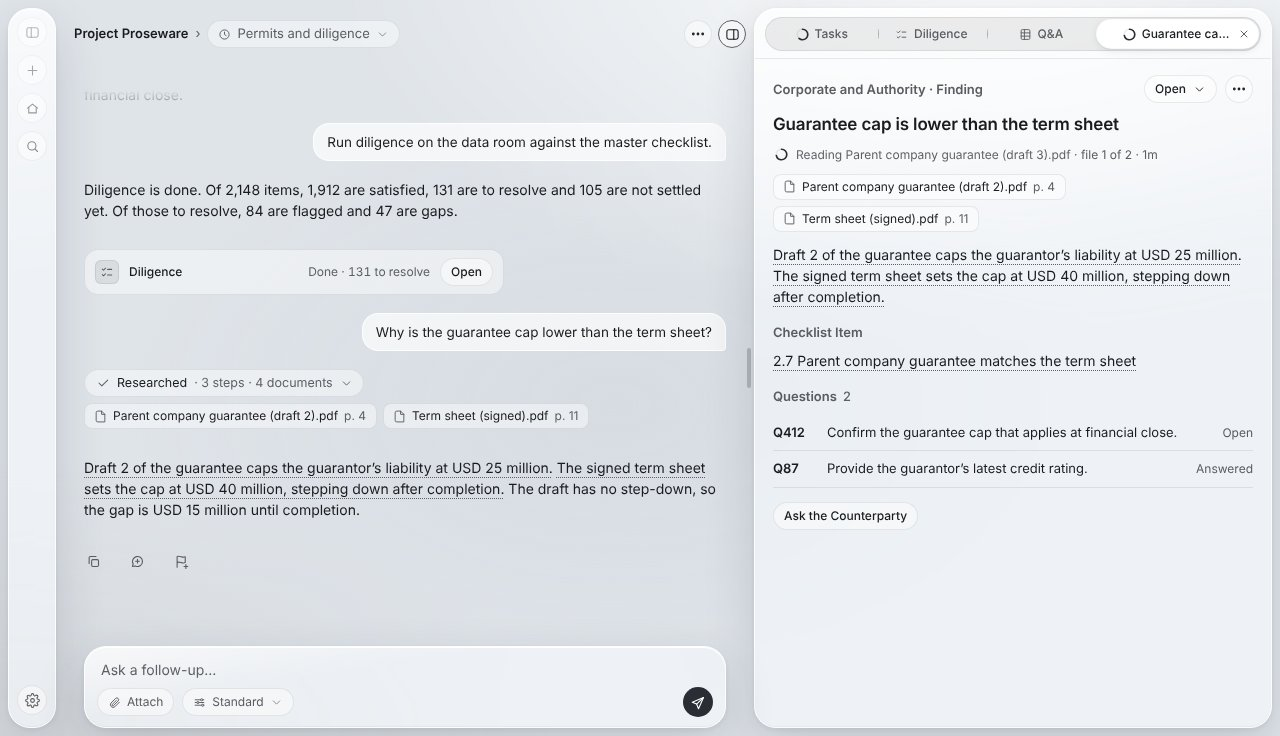
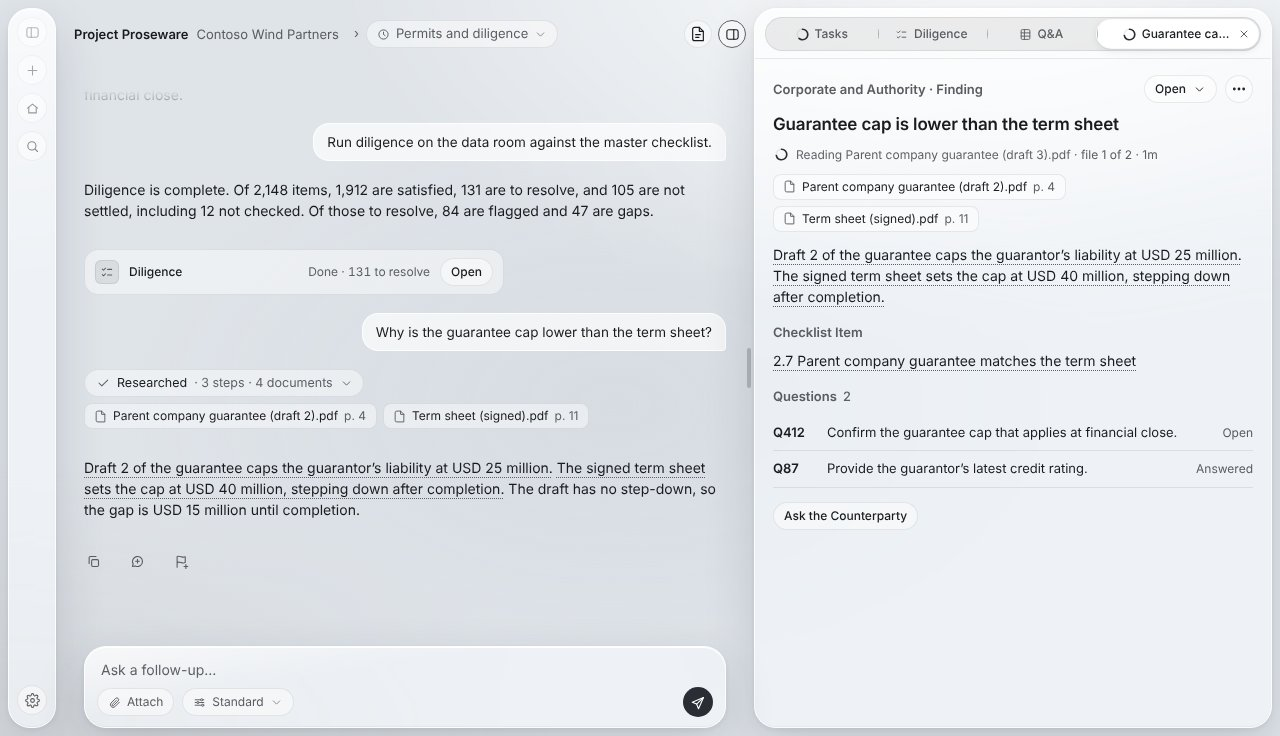
Make the Diligence summary agree with Needs Input on unchecked items (#888)

Changed region(s): [[0.0625, 0.25, 0.5625, 0.3125], [0.0625, 0.0312, 0.4062, 0.0625], [0.5312, 0.0312, 0.5625, 0.0625]]

diff --git a/docs/deal-screen/mock-chat.js b/docs/deal-screen/mock-chat.js
@@ -45,8 +45,8 @@ const TURN_DILIGENCE_RUNNING = `${ASK_DILIGENCE}
 ${taskCard('cklist', 'Diligence', '1,284 of 2,148 · 76 flagged', 0.6)}</div>`;
 
 const TURN_DILIGENCE_DONE = `${ASK_DILIGENCE}
-<div class="ai"><p>Diligence is done. Of 2,148 items, 1,912 are satisfied, 131 are to resolve and 105 are not settled`
-  + ` yet. Of those to resolve, 84 are flagged and 47 are gaps.</p>
+<div class="ai"><p>Diligence is complete. Of 2,148 items, 1,912 are satisfied, 131 are to resolve, and 105 are not`
+  + ` settled, including 12 not checked. Of those to resolve, 84 are flagged and 47 are gaps.</p>
 ${taskCard('cklist', 'Diligence', 'Done · 131 to resolve')}</div>`;
 
 const CAP_IN_DRAFT = cited('Draft 2 of the guarantee caps the guarantor’s liability at USD 25 million.');
